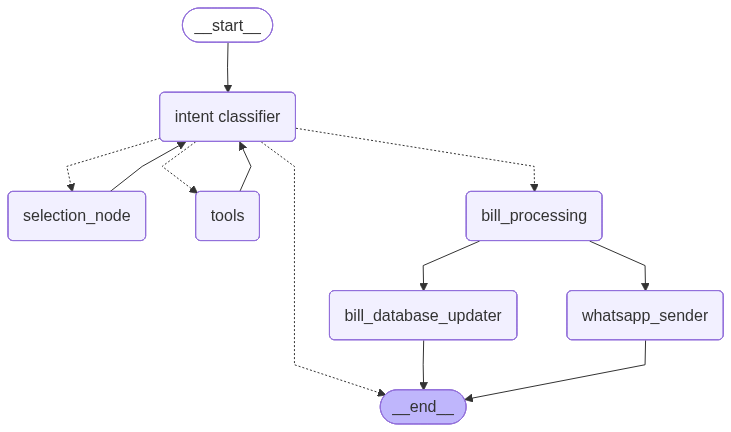
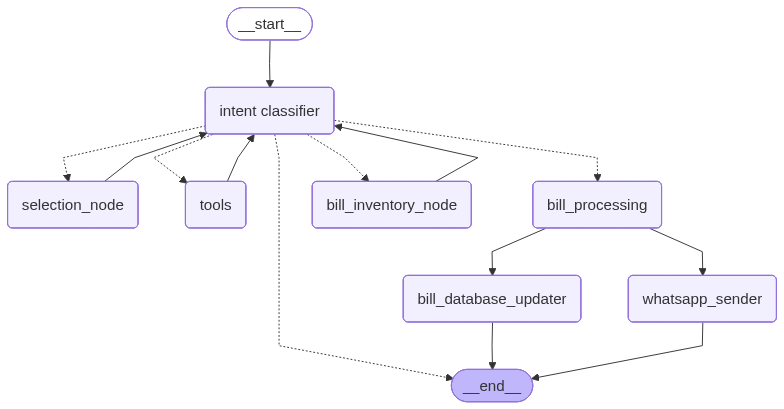
added another nnode responsible for retrieving the data about each clients bill and printing it in the appropiate format

diff --git a/backend/agent.py b/backend/agent.py
@@ -18,11 +18,13 @@ from whatsapp_sender import WhatsappSender
 import base64
 from langgraph.runtime import get_runtime
 from runtime_context import RuntimeContex
+from bill_tools import get_bills_for_client
+
 from tools import query_table, query_all_names, update_quantity, delete_record, insert_record, get_total_stock_value, get_general_information, get_most_valuable_product, get_less_products, get_top_products
 check_env_variables()
 class ShopAgent:
     def __init__(self):
-        self.tools = [query_table, query_all_names, update_quantity, insert_record, delete_record, get_total_stock_value, get_general_information, get_less_products, get_top_products, Bill]
+        self.tools = [query_table, query_all_names, update_quantity, insert_record, delete_record, get_total_stock_value, get_general_information, get_less_products, get_top_products, Bill, get_bills_for_client]
         self._llm = ChatGoogleGenerativeAI(model = "gemini-2.5-flash").bind_tools(self.tools)
         self.client = self.create_supabase_client()
        
@@ -34,7 +36,7 @@ class ShopAgent:
         client: Client = create_client(url, key)
         return client
     
-    def call_model(self, state: AgentState) -> Command[Literal["selection_node", "tools", "bill_processing", "__end__"]]:
+    def call_model(self, state: AgentState) -> Command[Literal["selection_node", "tools", "bill_processing", "bill_inventory_node", "__end__"]]:
         messages = state["messages"]
         system_message = SystemMessage(SYSTEM_PROMPT)
         
@@ -47,6 +49,8 @@ class ShopAgent:
             goto = "selection_node"
         elif response.tool_calls[0]['name'] == "Bill":
             goto = "bill_processing"
+        elif response.tool_calls[0]['name'] == "get_bills_for_client":
+            goto = "bill_inventory_node"
         else:
             goto = "tools"
         
@@ -164,8 +168,25 @@ class ShopAgent:
                     name="bills_database_updater"
                 )]}
 
+    def bill_inventory_node(self, state: AgentState):
+        last_message = state['messages'][-1]
+        tool_call = last_message.tool_calls[0]
 
+        data = get_bills_for_client.invoke(tool_call["args"]["client_name"])
+        
+        return {
+            "messages": [
+                ToolMessage( 
+                    tool_call_id=tool_call["id"],
+                    content=f"Print the following bills: {data}",
+                    name="bill_inventory_node"
+                )
+            ]
+        }
 
+        
+
+  
 
     def whatsapp_sender_node(self, state: AgentState):
         last_message = state['messages'][-1]
@@ -202,6 +223,7 @@ class ShopAgent:
         workflow.add_node("bill_processing", self.bill_processing_node)
         workflow.add_node("whatsapp_sender", self.whatsapp_sender_node)
         workflow.add_node("bill_database_updater", self.bills_database_updater)
+        workflow.add_node("bill_inventory_node", self.bill_inventory_node)
 
         workflow.set_entry_point("intent classifier")
 
@@ -211,7 +233,7 @@ class ShopAgent:
         workflow.add_edge("bill_processing", "bill_database_updater")
         workflow.add_edge("bill_database_updater", "__end__")
         workflow.add_edge("whatsapp_sender", "__end__")
-        
+        workflow.add_edge("bill_inventory_node", "intent classifier")
 
         return workflow.compile(checkpointer=InMemorySaver())
  

diff --git a/backend/bill_tools.py b/backend/bill_tools.py
@@ -1,0 +1,24 @@
+from langchain_core.tools import tool
+from langgraph.runtime import get_runtime
+from runtime_context import RuntimeContex
+
+@tool(description="Updates the inventory based on the generated bill.")
+def get_bills_for_client(client_name: str):
+    """
+    Docstring for get_bills_for_client. it returns the products bought by a specific client.
+    The products make up the bill of that client.
+    
+    :param client_name: Description
+    :type client_name: str
+    """
+    try:
+        runtime_config = get_runtime(RuntimeContex)
+        supabase_client = runtime_config.context.db
+
+        query = supabase_client.table("view_transactions").select("*").ilike('costumer_name', client_name).execute()
+        if query.data and len(query.data) > 0:
+            return query.data
+        else:
+            return f"Customer {client_name} not found in database."
+    except Exception as e:
+        return f"An error occurred: {e}"

diff --git a/backend/system_prompt.py b/backend/system_prompt.py
@@ -8,4 +8,8 @@ When answering questions about the products, you can use the tools at your dispo
 Always use the tools first before answering, especially for operations like delete, update and insert. Before these operations an select is always needed to confirm the product exists.
 
 When processing bills, you must generate a PDF bill using the Bill tool and when requested to do so, you do not have anything to do with the database.
+
+In case of bill queries, you can use the get_bills_for_client tool to retrieve the products bought by a specific client.
+Make sure to follow these guidelines when responding:
+- Group the products by their date, the products bought on the same date from the client, make up a bill
 """

diff --git a/backend/state.py b/backend/state.py
@@ -1,9 +1,10 @@
 
 from typing import TypedDict, Annotated
 from langchain_core.messages import AnyMessage
+from langgraph.graph.message import add_messages
 import operator
 
 class AgentState(TypedDict):
-    messages: Annotated[list[AnyMessage], operator.add]
+    messages: Annotated[list[AnyMessage], add_messages]
     target_product: str | None  
     action: str | None # Here we save either if it is a deletion, insert or update
